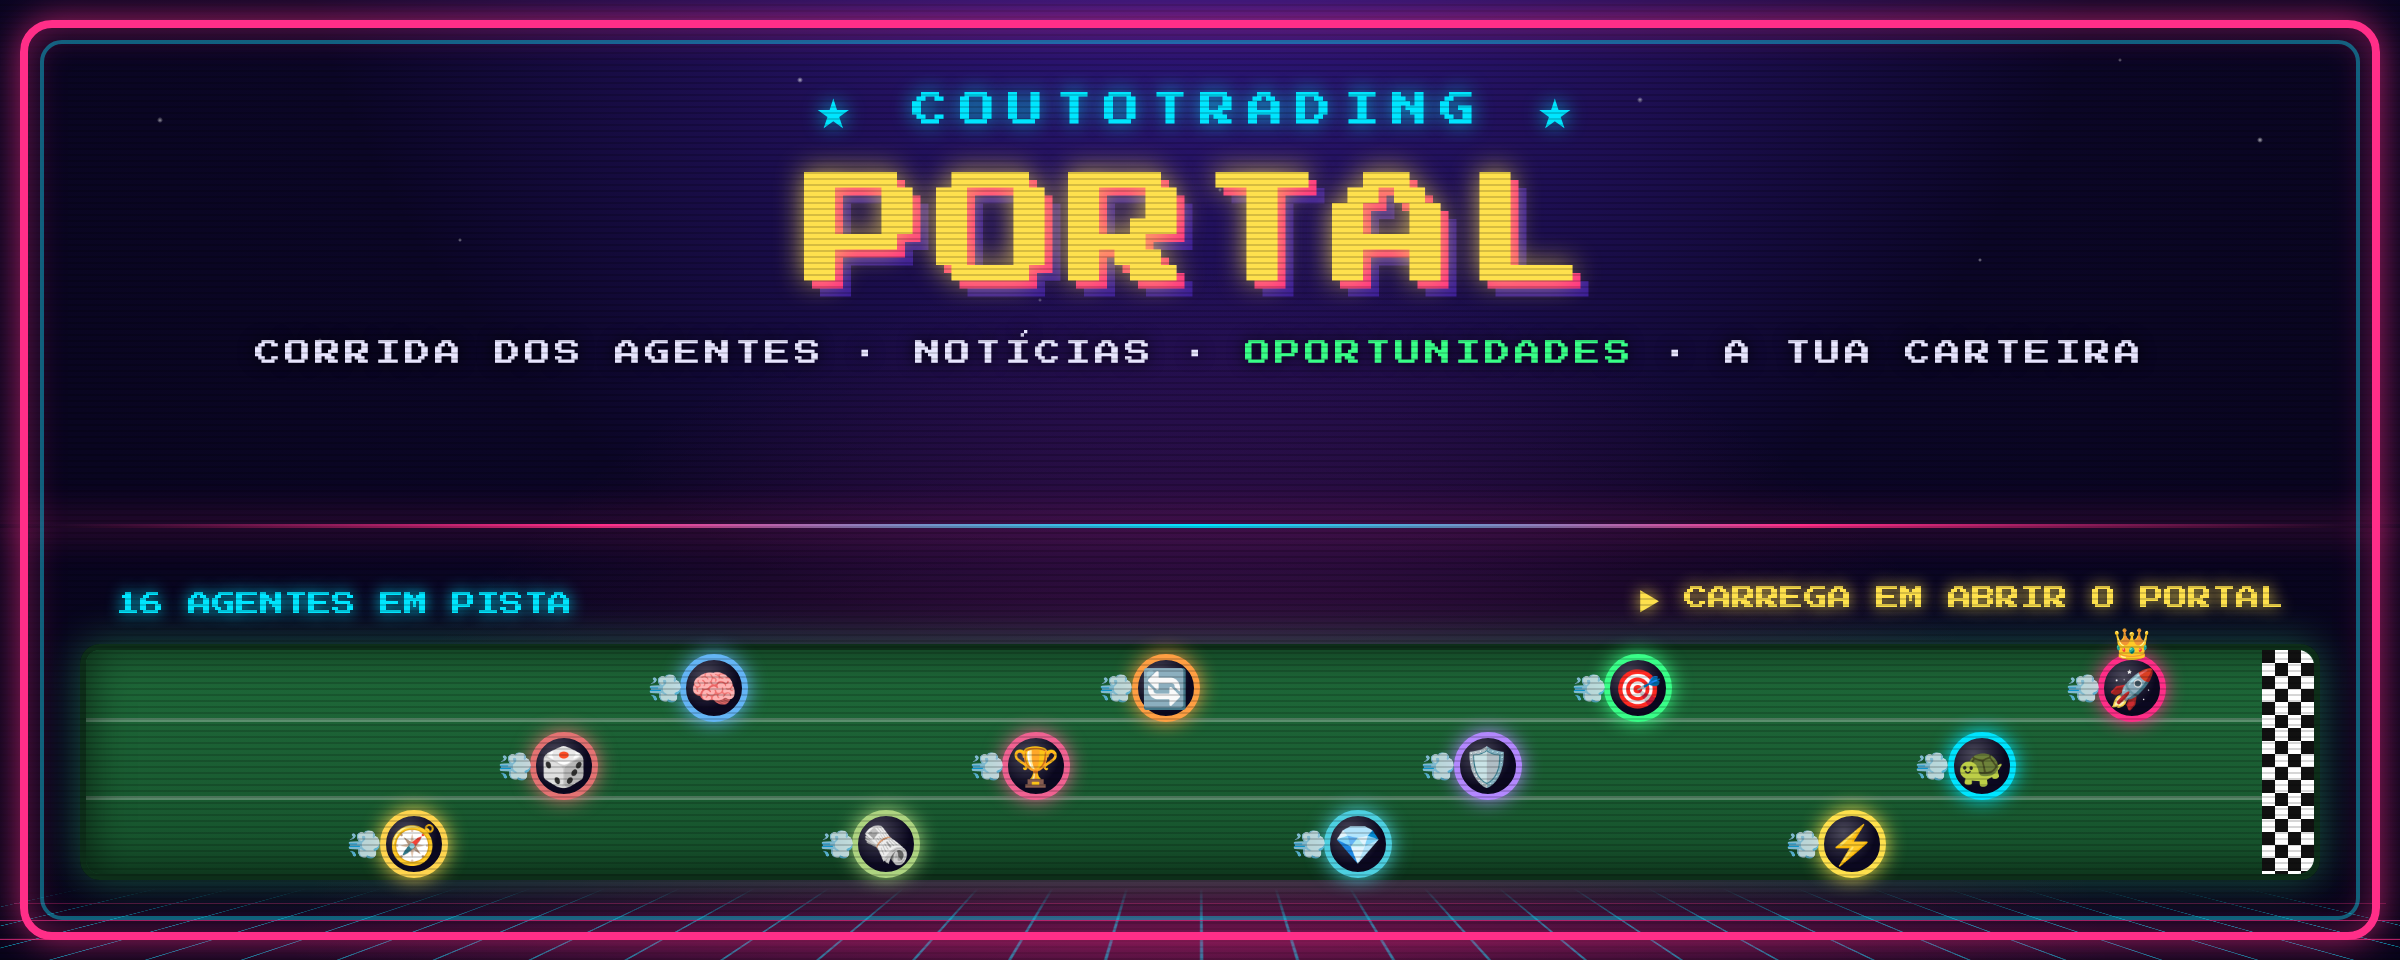
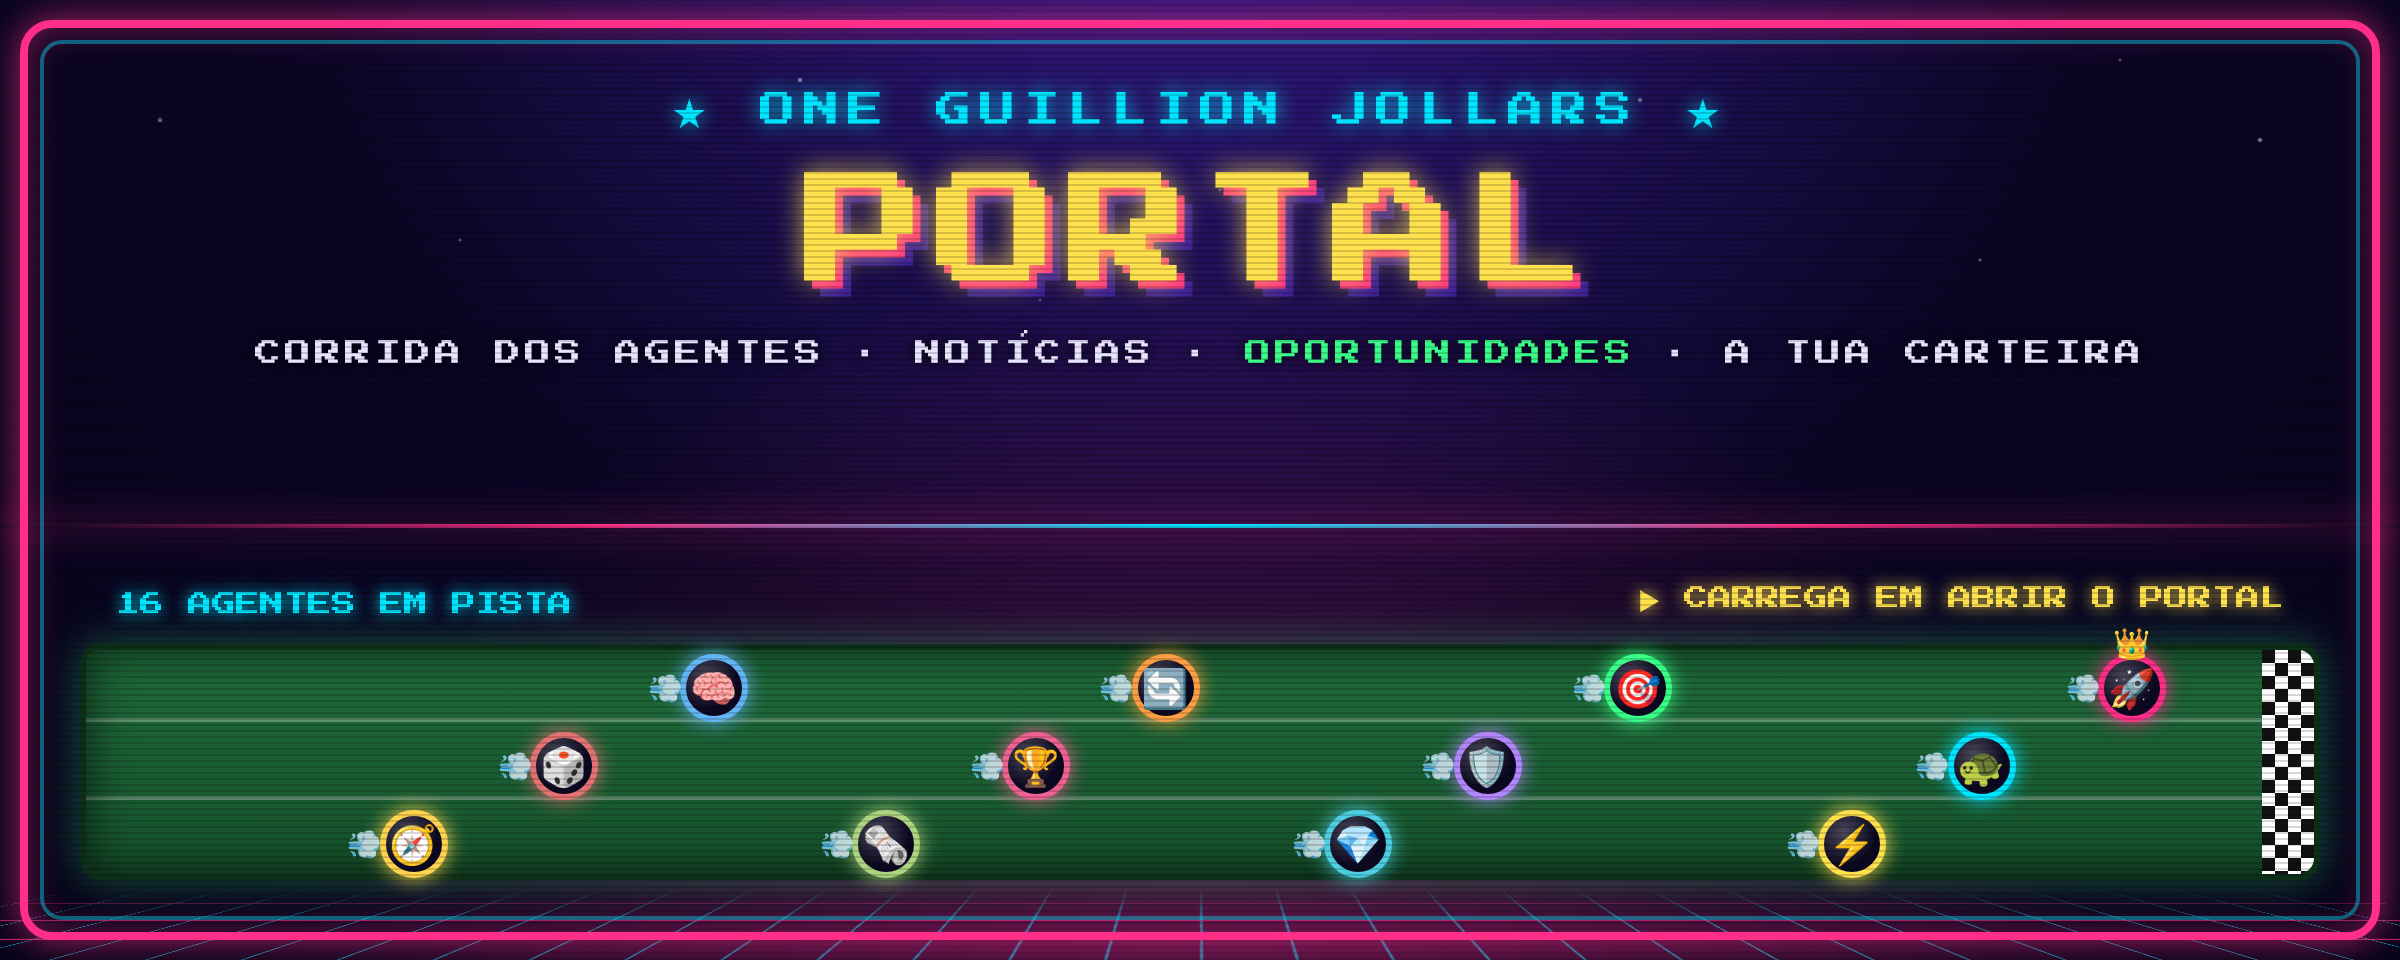
Call the portal One Guillion Jollars
Name on the portal page, the pinned message, /portal and the banner. The race
labels use mixed case, since the pixel font draws accented capitals small.

Claude-Session: https://claude.ai/code/session_013aTWtzmfEG85KckXi2c445

Changed region(s): [[0.2812, 0.0938, 0.7188, 0.1562]]

diff --git a/discord-bot/chart_page.js b/discord-bot/chart_page.js
@@ -136,16 +136,16 @@ export function chartPage(data, upcoming, newer, extras = {}) {
   const body = `
 ${banner}
 <header>
-  <h1>${esc(portal ? "🏟 Portal CoutoTrading" : data.title)}</h1>
+  <h1>${esc(portal ? "🏟 One Guillion Jollars" : data.title)}</h1>
   <p class="muted">${esc(portal ? data.title + " · " + (data.subtitle || "") : data.subtitle || "")}</p>
   <p class="muted small">Dados da liga de <span id="updated"></span> (hora de Lisboa) · simulação com dinheiro fictício e preços reais · ferramenta educativa, não é recomendação de compra</p>
 </header>
 <nav class="tabs" id="tabs">${tabs.map(([k, label], i) => `<button class="tab${i ? "" : " on"}" data-tab="${k}">${label}</button>`).join("")}</nav>
 <section class="race" id="race" data-tab="corrida">
-  <div class="marquee"><span>🏁 GRANDE PRÉMIO DOS AGENTES 🏁</span></div>
+  <div class="marquee"><span>🏁 Grande Prémio dos Agentes 🏁</span></div>
   <div class="hud">
-    <div>DIA <b id="race-date">—</b></div>
-    <div>LÍDER <b id="race-leader">—</b></div>
+    <div>Dia <b id="race-date">—</b></div>
+    <div>Líder <b id="race-leader">—</b></div>
     <div class="controls"><button id="race-play" class="btn">▶ VER A CORRIDA</button><button id="race-speed" class="btn alt">1×</button></div>
   </div>
   <div id="track" class="track"></div>
@@ -190,7 +190,7 @@ const MARKET = ${safeJson(extras.market || null)};
 const PROPOSALS = ${safeJson(extras.proposals || null)};
 ${CLIENT}
 </script>`;
-  return page(portal ? "Portal CoutoTrading" : data.title, body, `<link rel="preconnect" href="https://fonts.googleapis.com"><link rel="preconnect" href="https://fonts.gstatic.com" crossorigin>
+  return page(portal ? "One Guillion Jollars" : data.title, body, `<link rel="preconnect" href="https://fonts.googleapis.com"><link rel="preconnect" href="https://fonts.gstatic.com" crossorigin>
 <link href="https://fonts.googleapis.com/css2?family=Press+Start+2P&display=swap" rel="stylesheet">
 <script src="${PLOTLY}"></script>`);
 }
@@ -622,7 +622,7 @@ const store = { get(k, d) { try { const v = localStorage.getItem(k); return v ==
       if (place !== 0 && crown) crown.remove();
     });
     $("race-date").textContent = fmtDay(frames[f]);
-    $("race-leader").textContent = now.length ? (agentOf(now[0].s.name)?.emoji || "") + " " + now[0].s.name.toUpperCase() : "—";
+    $("race-leader").textContent = now.length ? (agentOf(now[0].s.name)?.emoji || "") + " " + now[0].s.name : "—";
     $("board").innerHTML = now.map((r, k) => {
       const a = agentOf(r.s.name);
       return '<li data-name="' + esc(r.s.name) + '"><span class="pos">' + (k + 1) + 'º</span><span>' + esc(a ? a.emoji : "🏇") + '</span><span class="nm">' +

diff --git a/discord/banner/portal-banner.html b/discord/banner/portal-banner.html
@@ -30,7 +30,7 @@ html, body { width:1200px; height:480px; overflow:hidden; background:#07041a; }
 .frame { position:absolute; inset:10px; border:4px solid var(--pink); border-radius:16px; box-shadow:0 0 18px #ff2e88aa, inset 0 0 18px #ff2e8866; }
 .frame::after { content:""; position:absolute; inset:6px; border:2px solid #00e5ff66; border-radius:11px; }
 .title { position:absolute; top:46px; width:100%; text-align:center; font-family:Pixel; }
-.title .small { font-size:18px; color:var(--neon); letter-spacing:6px; text-shadow:0 0 10px #00e5ffcc; }
+.title .small { font-size:18px; color:var(--neon); letter-spacing:4px; text-shadow:0 0 10px #00e5ffcc; }
 .title .big { margin-top:18px; font-size:62px; color:var(--gold); letter-spacing:4px;
   text-shadow: 0 0 14px #ffe14dcc, 4px 4px 0 #ff2e88, 8px 8px 0 #3b1d9a; }
 .title .tag { margin-top:22px; font-size:13px; color:#e8e6ff; letter-spacing:2px; text-shadow:0 0 8px #000; }
@@ -58,7 +58,7 @@ html, body { width:1200px; height:480px; overflow:hidden; background:#07041a; }
   <div class="horizon"></div>
   <div class="floor"></div>
   <div class="title">
-    <div class="small">★ COUTOTRADING ★</div>
+    <div class="small">★ ONE GUILLION JOLLARS ★</div>
     <div class="big">PORTAL</div>
     <div class="tag">CORRIDA DOS AGENTES · NOT<span class="acute">I</span>CIAS · <b>OPORTUNIDADES</b> · A TUA CARTEIRA</div>
   </div>

diff --git a/discord-bot/worker.js b/discord-bot/worker.js
@@ -102,7 +102,7 @@ export default {
       return portfolioRoute(request, env, wallet[1], wallet[2] || "");
     }
     if (request.method !== "POST") {
-      return new Response("CoutoTrading bot: endpoint de interações do Discord.", { status: 200 });
+      return new Response("One Guillion Jollars: endpoint de interações do Discord.", { status: 200 });
     }
     const body = await request.text();
     if (!(await isValidSignature(request, body, env.DISCORD_PUBLIC_KEY))) {
@@ -154,7 +154,7 @@ export default {
         await env.CONFIG.put("portal:token", JSON.stringify(token));
       }
       const content = token
-        ? `🏟 **Portal CoutoTrading**: corrida e fichas dos agentes, notícias, oportunidades com score de segurança e agenda.\n${new URL(request.url).origin}/p/${token}\n-# Link do servidor: partilha só com os membros.`
+        ? `🏟 **One Guillion Jollars**: corrida e fichas dos agentes, notícias, oportunidades com score de segurança e agenda.\n${new URL(request.url).origin}/p/${token}\n-# Link do servidor: partilha só com os membros.`
         : "⚠ O portal aparece depois da próxima liga dos agentes (dias úteis às 12:15).";
       return json({ type: CHANNEL_MESSAGE, data: { content, flags: EPHEMERAL } });
     }

diff --git a/scripts/discord_setup.py b/scripts/discord_setup.py
@@ -327,7 +327,7 @@ def portal_card(url: str | None, sched: dict, channels: dict[str, str]) -> dict:
     alerts, news = " · ".join(sched["alertas"]), " · ".join(sched["noticias"])
     weekly = sched["semanal"]
     return embed(
-        "🏟 Portal CoutoTrading",
+        "🏟 One Guillion Jollars",
         "**O portal é o centro**: tudo o que o bot sabe, numa página.\n"
         "🏁 corrida e fichas completas dos 16 agentes · 📰 notícias que importam · 🎯 oportunidades de compra e venda com "
         "**score de segurança** explicado · ⏱ contagem para cada atualização · 💼 a tua carteira pessoal\n\n"
@@ -348,7 +348,7 @@ def portal_card(url: str | None, sched: dict, channels: dict[str, str]) -> dict:
              "3. Escreve `/` em qualquer canal para ver os comandos (`/acao`, `/agentes`, `/limites`…)."),
         ],
         footer="Ferramenta educativa com dinheiro fictício nos agentes. Nada aqui é recomendação de compra.",
-    ) if url else embed("🏟 Portal CoutoTrading", "O portal ainda não está ligado (faltam as credenciais da Cloudflare).", color=PINK)
+    ) if url else embed("🏟 One Guillion Jollars", "O portal ainda não está ligado (faltam as credenciais da Cloudflare).", color=PINK)
 
 
 def create_portal() -> int:
